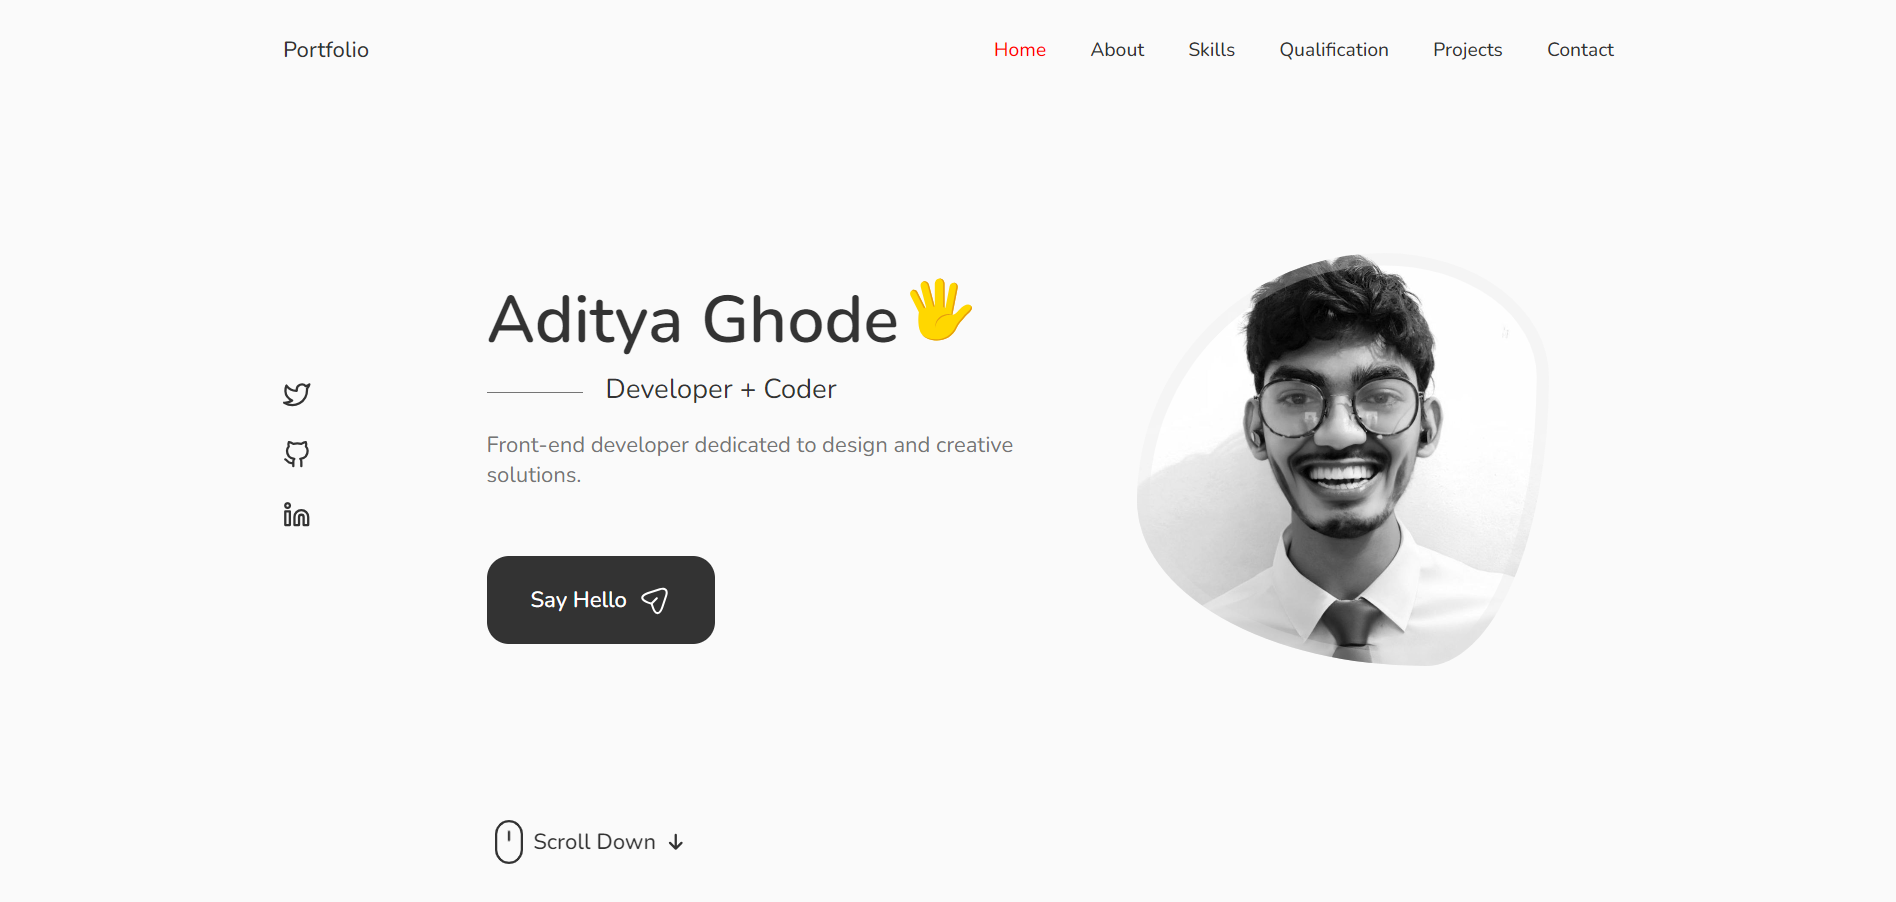
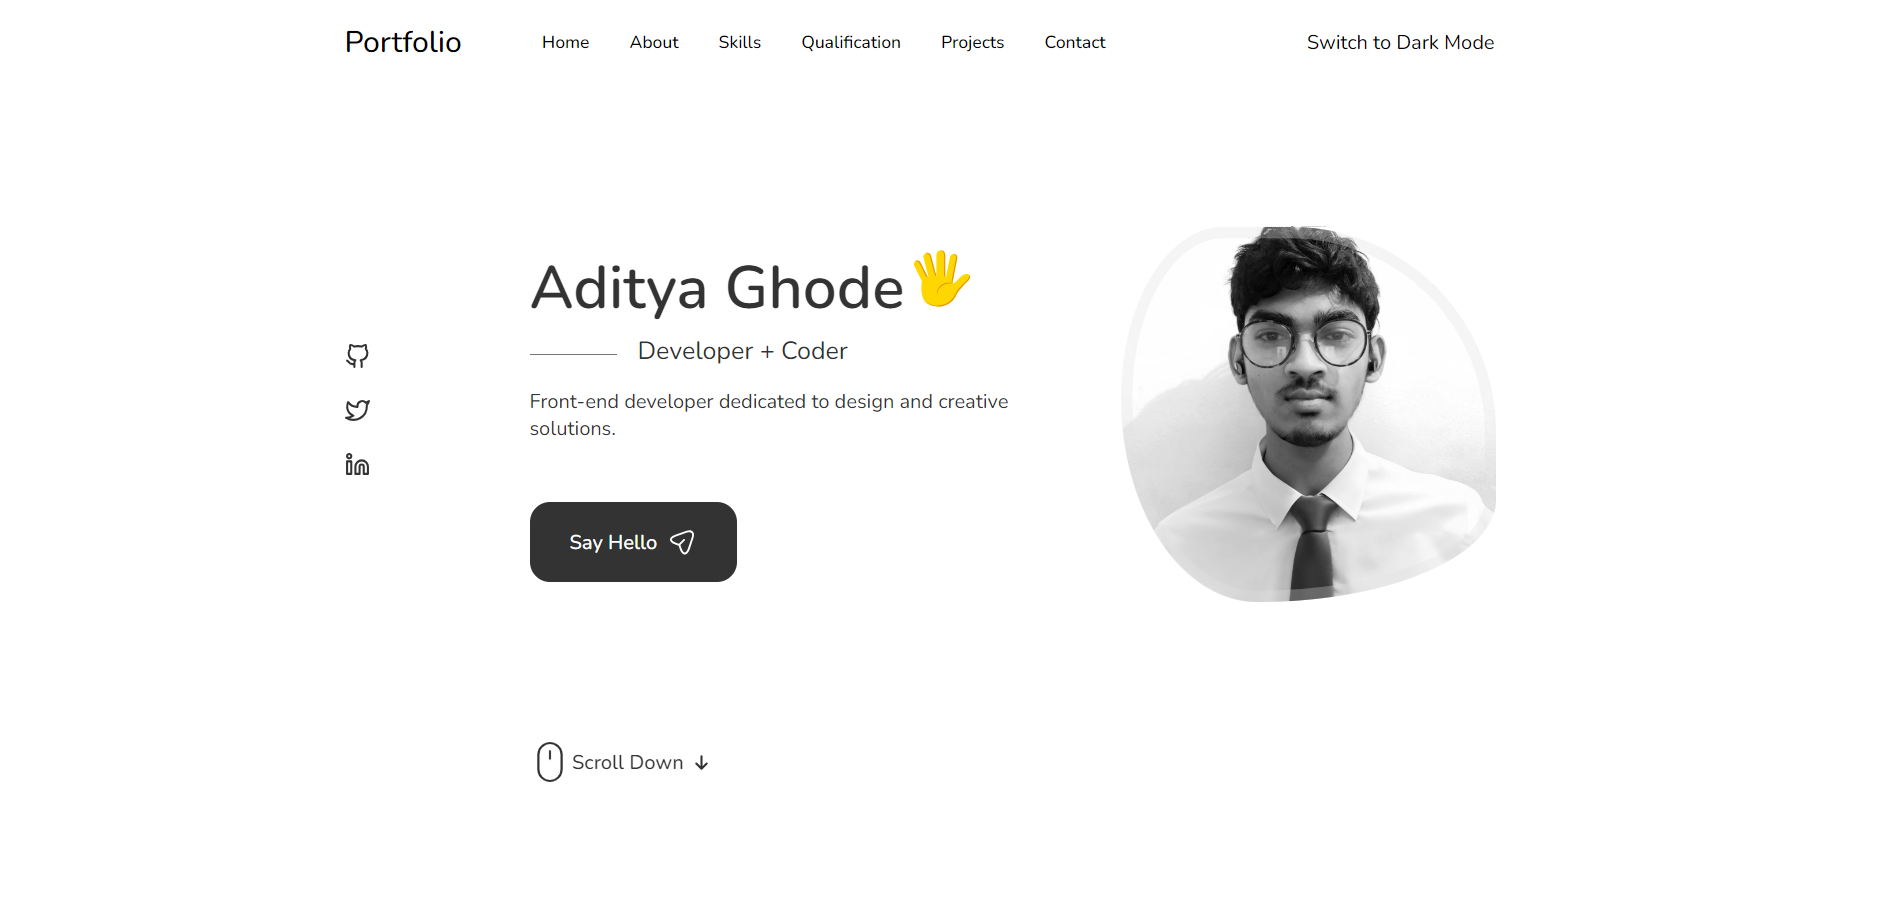
Profile change

diff --git a/src/components/header/header.css b/src/components/header/header.css
@@ -1,184 +1,189 @@
 /* Default light mode styles */
 body {
-    background-color: white;
-    color: black;
-  }
-  
+  background-color: white;
+  color: black;
+}
+
+.header {
+  width: 100%;
+  position: fixed;
+  top: 0;
+  left: 0;
+  z-index: var(--z-fixed);
+  background-color: white; /* Light mode background color */
+}
+
+.nav {
+  height: calc(var(--header-height) + 1.5rem);
+  display: flex;
+  justify-content: space-between;
+  align-items: center;
+  column-gap: 1rem;
+}
+
+.nav__logo, .nav__toggle {
+  color: black; /* Light mode color for logo and toggle */
+  font-weight: var(--font-medium);
+  margin-right: 3rem; /* Adjusted value to double the space */
+  font-size: 1.5rem; /* Adjust logo size */
+}
+
+/* Light mode color for 'Portfolio' */
+.nav__logo {
+  color: black; /* Light mode color for 'Portfolio' */
+}
+
+.nav__list {
+  display: flex;
+  column-gap: 2rem;
+}
+
+.nav__link {
+  display: flex;
+  flex-direction: column;
+  align-items: center;
+  font-size: var(--small-font-size);
+  color: black; /* Light mode color for links */
+  font-weight: var(--font-medium);
+  transition: .3s;
+}
+
+/* ACTIVE LINK */
+.active-link, .nav__link:hover {
+  color: var(--title-color-dark); /* Darker color for active or hovered links */
+}
+
+/* CHANGE HEADER */
+.scroll-header {
+  box-shadow: 0 1px 4px rgba(0,0,0,0.15);
+}
+
+/* Dark mode styles */
+body.dark-mode {
+  background-color: #121212;
+  color: #e0e0e0;
+}
+
+.header.dark-mode {
+  background-color: #1f1f1f; /* Dark mode background color */
+  color: #e0e0e0;
+}
+
+.nav__menu.dark-mode {
+  background-color: #1f1f1f; /* Dark mode menu background color */
+}
+
+/* Dark mode color for 'Portfolio' */
+.header.dark-mode .nav__logo {
+  color: #e0e0e0; /* Dark mode color for 'Portfolio' */
+}
+
+.nav__link {
+  color: black; /* Reset link color to black for light mode */
+}
+
+/* Link color specifically for dark mode */
+body.dark-mode .nav__link {
+  color: #e0e0e0; /* Dark mode color for links */
+}
+
+body.dark-mode .nav__link.active-link, 
+body.dark-mode .nav__link:hover {
+  color: #ff0000; /* Light color for active or hovered links in dark mode */
+}
+
+/* Dark mode toggle button */
+button.dark-mode-toggle {
+  background-color: transparent;
+  border: none;
+  color: inherit;
+  cursor: pointer;
+  font-size: 1rem;
+  margin-left: 1rem;
+  transition: color 0.3s;
+}
+
+button.dark-mode-toggle:hover {
+  color: red; /* Hover color for dark mode toggle button in both modes */
+}
+
+/* Flexbox container for right-aligned elements */
+.nav__right {
+  display: flex;
+  align-items: center;
+  margin-left: auto;
+}
+
+/* BREAK POINTS */
+@media screen and (max-width: 768px) {
   .header {
-    width: 100%;
-    position: fixed;
-    top: 0;
-    left: 0;
-    z-index: var(--z-fixed);
-    background-color: white; /* Light mode background color */
+    top: initial;
+    bottom: 0;
   }
-  
+
   .nav {
-    height: calc(var(--header-height) + 1.5rem);
-    display: flex;
-    justify-content: space-between;
-    align-items: center;
-    column-gap: 1rem;
+    height: var(--header-height);
   }
-  
-  .nav__logo, .nav__toggle {
-    color: black; /* Light mode color for logo and toggle */
-    font-weight: var(--font-medium);
-    margin-right: 3rem; /* Adjusted value to double the space */
-    font-size: 1.5rem; /* Adjust logo size */
-  }
-  
-  /* Light mode color for 'Portfolio' */
-  .nav__logo {
-    color: black; /* Light mode color for 'Portfolio' */
-  }
-  
-  .nav__list {
-    display: flex;
-    column-gap: 2rem;
-  }
-  
-  .nav__link {
-    display: flex;
-    flex-direction: column;
-    align-items: center;
-    font-size: var(--small-font-size);
-    color: black; /* Light mode color for links */
-    font-weight: var(--font-medium);
+
+  .nav__menu {
+    position: fixed;
+    bottom: -100%;
+    left: 0;
+    width: 100%;
+    background-color: white; /* Light mode background color */
+    padding: 2rem 1.5rem 4rem;
+    box-shadow: 0 -1px 4px rgba(0,0,0,0.15);
+    border-radius: 1.5rem 1.5rem 0 0;
     transition: .3s;
   }
-  
-  /* ACTIVE LINK */
-  .active-link, .nav__link:hover {
-    color: var(--title-color-dark); /* Darker color for active or hovered links */
-  }
-  
-  /* CHANGE HEADER */
-  .scroll-header {
-    box-shadow: 0 1px 4px rgba(0,0,0,0.15);
-  }
-  
-  /* Dark mode styles */
-  body.dark-mode {
-    background-color: #121212;
-    color: #e0e0e0;
-  }
-  
-  .header.dark-mode {
-    background-color: #1f1f1f; /* Dark mode background color */
-    color: #e0e0e0;
-  }
-  
+
   .nav__menu.dark-mode {
     background-color: #1f1f1f; /* Dark mode menu background color */
   }
-  
-  /* Dark mode color for 'Portfolio' */
-  .header.dark-mode .nav__logo {
-    color: #e0e0e0; /* Dark mode color for 'Portfolio' */
+
+  .show-menu {
+    bottom: 0;
   }
-  
-  .nav__link {
-    color: black; /* Reset link color to black for light mode */
+
+  .nav__list {
+    display: grid;
+    grid-template-columns: repeat(3, 1fr);
+    gap: 2rem;
   }
-  
-  /* Link color specifically for dark mode */
-  body.dark-mode .nav__link {
-    color: #e0e0e0; /* Dark mode color for links */
+
+  .nav__icon {
+    font-size: 1.2rem;
   }
-  
-  body.dark-mode .nav__link.active-link, 
-  body.dark-mode .nav__link:hover {
-    color: #ff0000; /* Light color for active or hovered links in dark mode */
-  }
-  
-  /* Dark mode toggle button */
-  button.dark-mode-toggle {
-    background-color: transparent;
-    border: none;
-    color: inherit;
+
+  .nav__close {
+    position: absolute;
+    right: 1.3rem;
+    bottom: .5rem;
+    font-size: 1.5rem;
     cursor: pointer;
-    font-size: 1rem;
-    margin-left: 1rem;
+    color: black; /* Light mode color for close icon */
   }
-  
-  /* Flexbox container for right-aligned elements */
-  .nav__right {
-    display: flex;
-    align-items: center;
-    margin-left: auto;
+
+  .nav__close:hover {
+    color: var(--title-color-dark);
   }
-  
-  /* BREAK POINTS */
-  @media screen and (max-width: 768px) {
-    .header {
-      top: initial;
-      bottom: 0;
-    }
-  
-    .nav {
-      height: var(--header-height);
-    }
-  
-    .nav__menu {
-      position: fixed;
-      bottom: -100%;
-      left: 0;
-      width: 100%;
-      background-color: white; /* Light mode background color */
-      padding: 2rem 1.5rem 4rem;
-      box-shadow: 0 -1px 4px rgba(0,0,0,0.15);
-      border-radius: 1.5rem 1.5rem 0 0;
-      transition: .3s;
-    }
-  
-    .nav__menu.dark-mode {
-      background-color: #1f1f1f; /* Dark mode menu background color */
-    }
-  
-    .show-menu {
-      bottom: 0;
-    }
-  
-    .nav__list {
-      display: grid;
-      grid-template-columns: repeat(3, 1fr);
-      gap: 2rem;
-    }
-  
-    .nav__icon {
-      font-size: 1.2rem;
-    }
-  
-    .nav__close {
-      position: absolute;
-      right: 1.3rem;
-      bottom: .5rem;
-      font-size: 1.5rem;
-      cursor: pointer;
-      color: black; /* Light mode color for close icon */
-    }
-  
-    .nav__close:hover {
-      color: var(--title-color-dark);
-    }
-  
-    .nav__toggle {
-      font-size: 1.1rem;
-      cursor: pointer;
-    }
-  
-    .nav__icon, .nav__close, .nav__toggle {
-      display: block;
-    }
+
+  .nav__toggle {
+    font-size: 1.1rem;
+    cursor: pointer;
   }
-  
-  @media screen and (max-width: 350px) {
-    .nav__menu {
-      padding: 2rem 0.25rem 4rem;
-    }
-  
-    .nav__list {
-      column-gap: 0;
-    }
+
+  .nav__icon, .nav__close, .nav__toggle {
+    display: block;
   }
+}
+
+@media screen and (max-width: 350px) {
+  .nav__menu {
+    padding: 2rem 0.25rem 4rem;
+  }
+
+  .nav__list {
+    column-gap: 0;
+  }
+}

diff --git a/src/components/about/About.jsx b/src/components/about/About.jsx
@@ -1,6 +1,6 @@
 import React from 'react';
 import "./about.css";
-import AboutImg from "../../assets/my_profile.jpg";
+import AboutImg from "../../assets/profile.jpg";
 import CV from "../../assets/Resume.pdf";
 import Info from "./Info";
 

diff --git a/src/components/home/home.css b/src/components/home/home.css
@@ -62,7 +62,7 @@
 }
 
 .home__img {
-    background: url(../../assets//my_profile.jpg);
+    background: url(../../assets//profile.jpg);
     background-repeat: no-repeat;
     background-position: center;
     background-size: cover;
